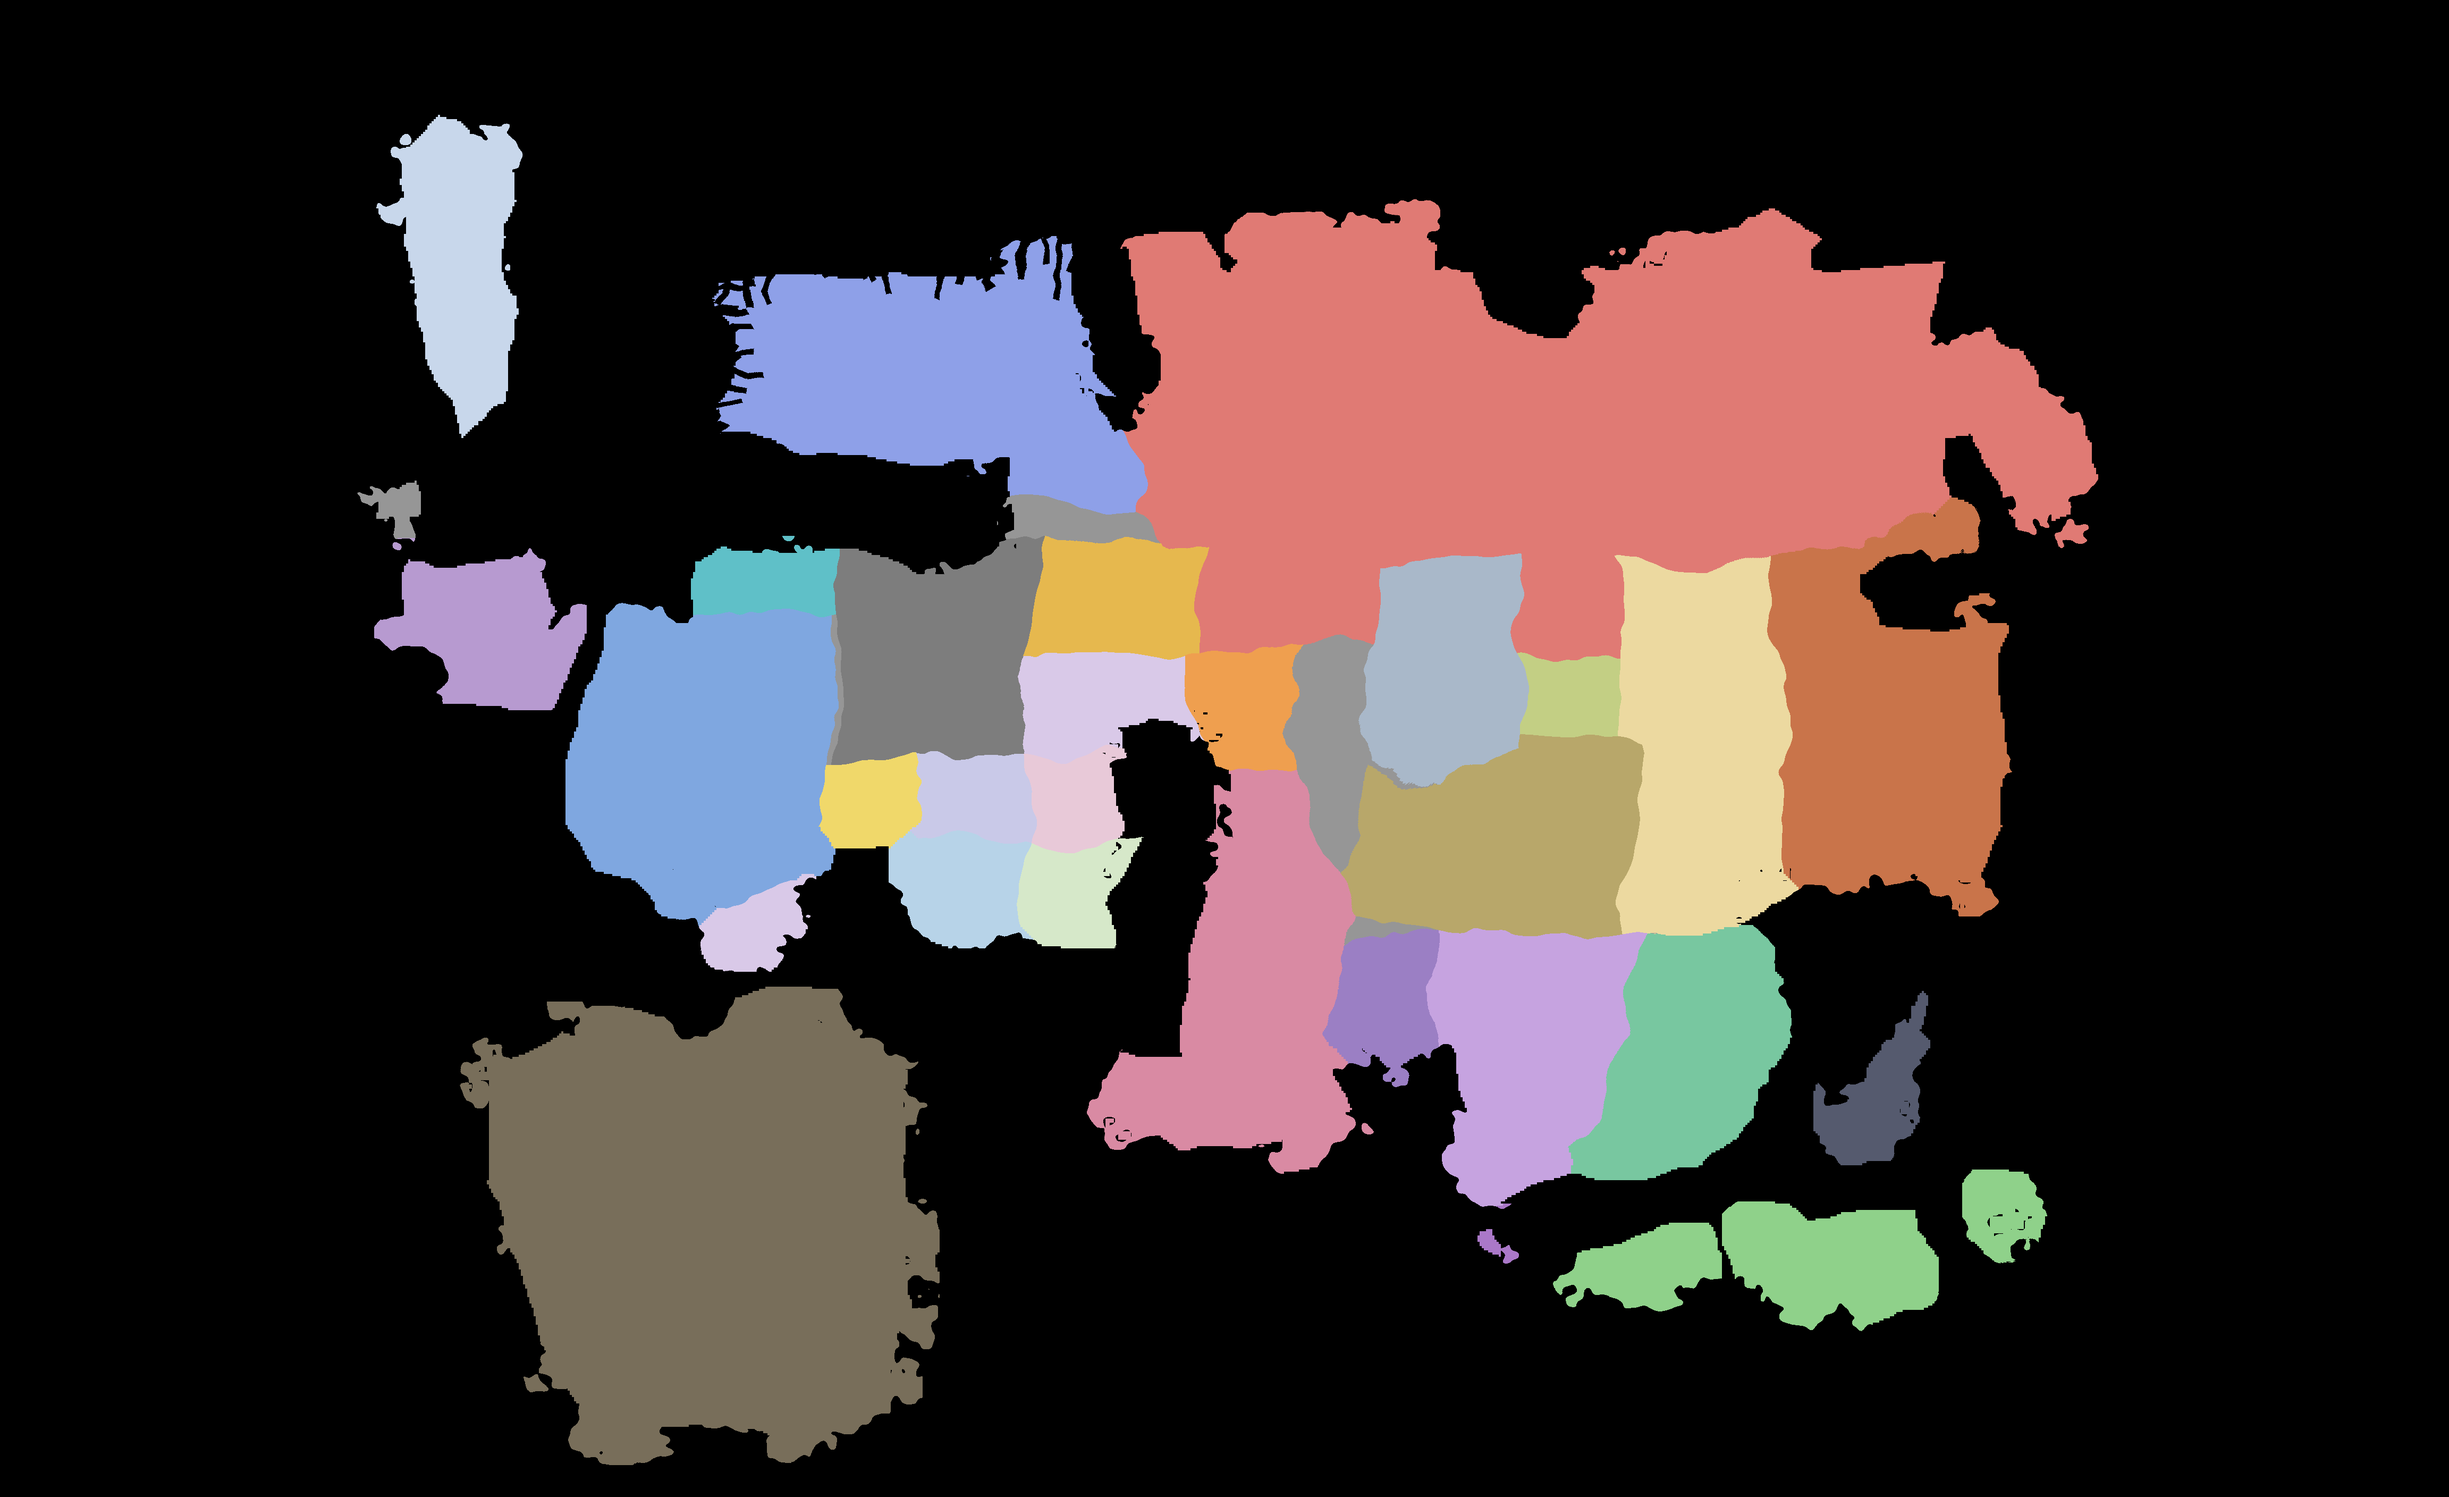
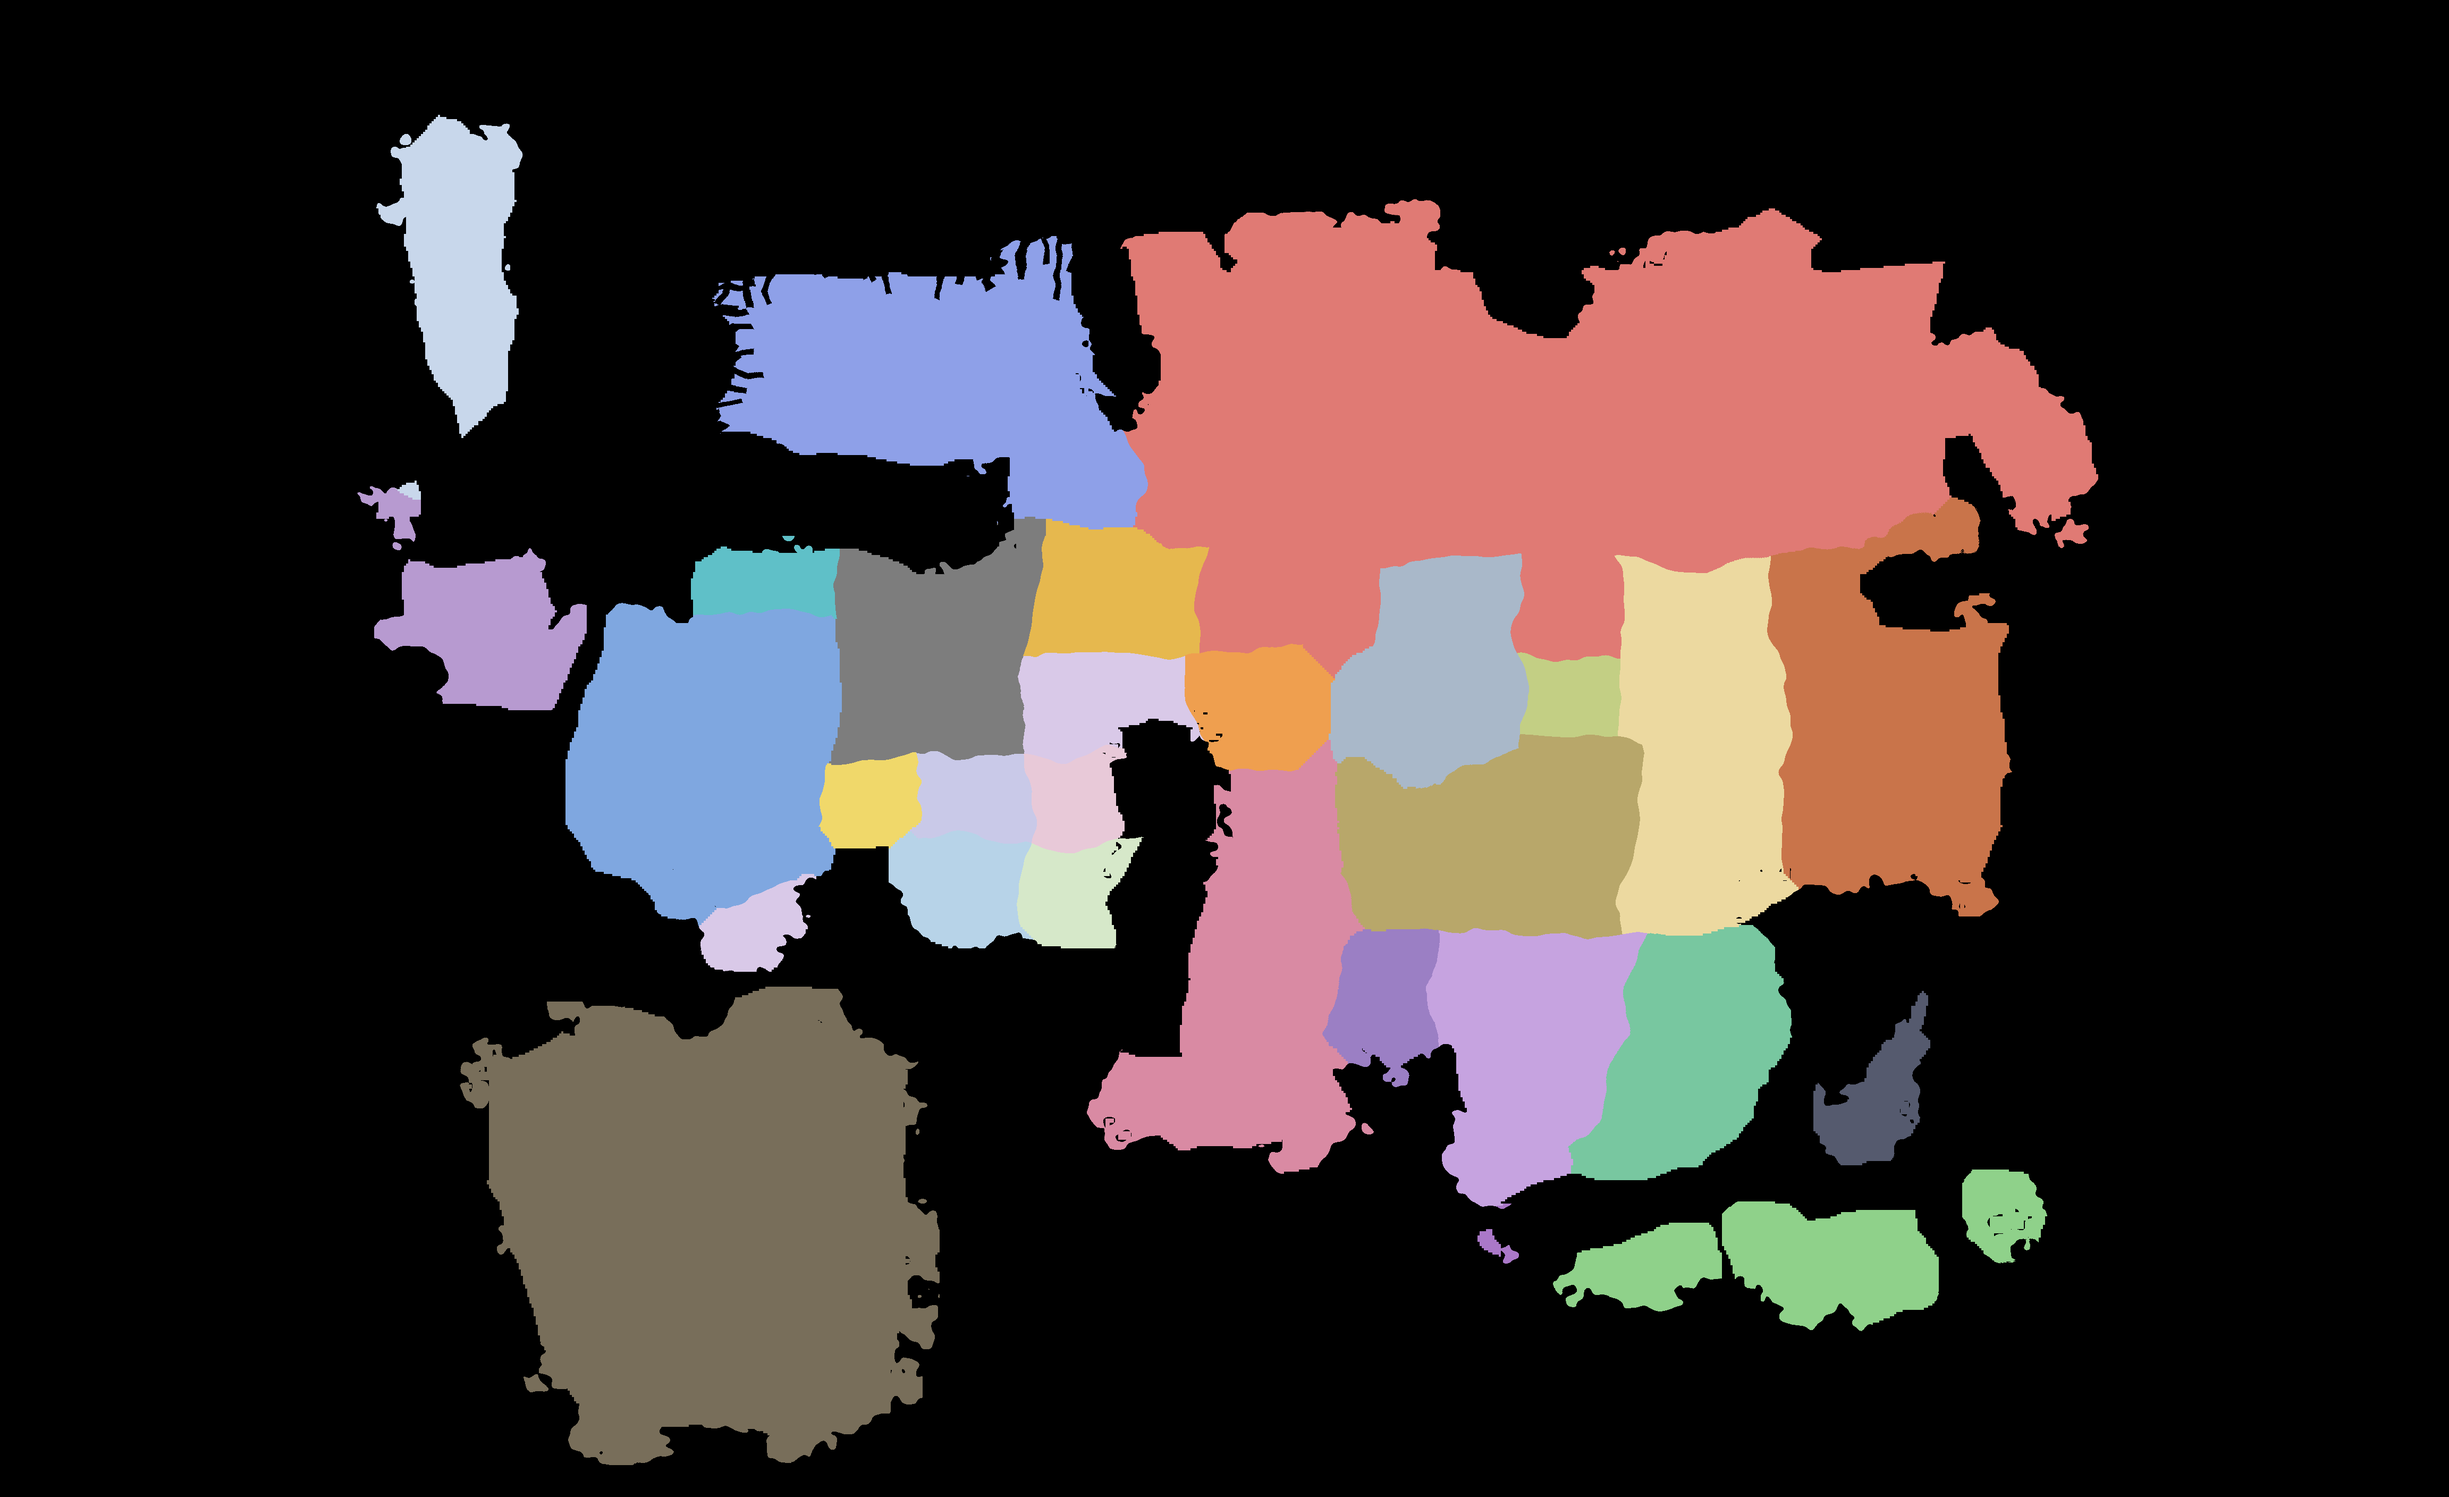
tools: drop UNL placeholder from country map, assign leftover land to nearest country; docs: map fix notes

Changed region(s): [[0.5, 0.4062, 0.5938, 0.625], [0.4062, 0.3125, 0.4688, 0.375], [0.1562, 0.3125, 0.1875, 0.375]]

diff --git a/tools/export_rp_inputs.py b/tools/export_rp_inputs.py
@@ -429,8 +429,9 @@ def stage2():
     lab[jb] = codes["temperatewarm"]                                                                     # восток Фигарии у реки: умеренный
     lab[m1["snow"]] = codes["snow"]
     # земля без метки (кайма из-за смещения границ) берёт ближайшую метку: растим метки на 1/4 разрешения
+    lab[lab == codes["UNL"]] = 0                                             # заглушка UNL не оставляется: остатки суши отходят ближайшей стране
     sm = lab[::4, ::4].copy()
-    for _ in range(40):
+    for _ in range(300):
         for sh, ax in ((1, 0), (-1, 0), (1, 1), (-1, 1)):
             nb = np.roll(sm, sh, axis=ax)
             sm = np.where((sm == 0) & (nb > 0), nb, sm)
@@ -576,8 +577,9 @@ def country_labels():
     paint(inf, "TRV")
     paint([britain], "BRT"); paint([JAPAN], "BLK"); paint([CEYLON], "CEY"); paint([LEDYSHKA], "LED"); paint([SPAIN], "Z05"); paint([SPAIN_BRIDGE], "SOY")
     paint([DM_WIDER], "DMK"); paint([SOUTH], "FIG"); paint([KAMCHATKA] + SSSR_CAPES, "SVS")
+    lab[lab == codes["UNL"]] = 0                                             # заглушка UNL не оставляется: остатки суши отходят ближайшей стране
     sm = lab[::4, ::4].copy()
-    for _ in range(40):
+    for _ in range(300):
         for sh, ax in ((1, 0), (-1, 0), (1, 1), (-1, 1)):
             nb = np.roll(sm, sh, axis=ax)
             sm = np.where((sm == 0) & (nb > 0), nb, sm)

diff --git a/docs/08-map-fix.md b/docs/08-map-fix.md
@@ -2,4 +2,6 @@
 
 1. На карте есть лишняя страна: HER (Herra Union State), занимает (id провинций) 1508, 380, 406 и т.д;
 2. Провинция = Провка (в ванильной игре 2 подтипа - провинция и провка)
-3. Названия стран,
+3. Названия стран не соответсвует лору;
+4. Названия локаций не соответсвует лору;
+5. Количество портов слишком большое;
